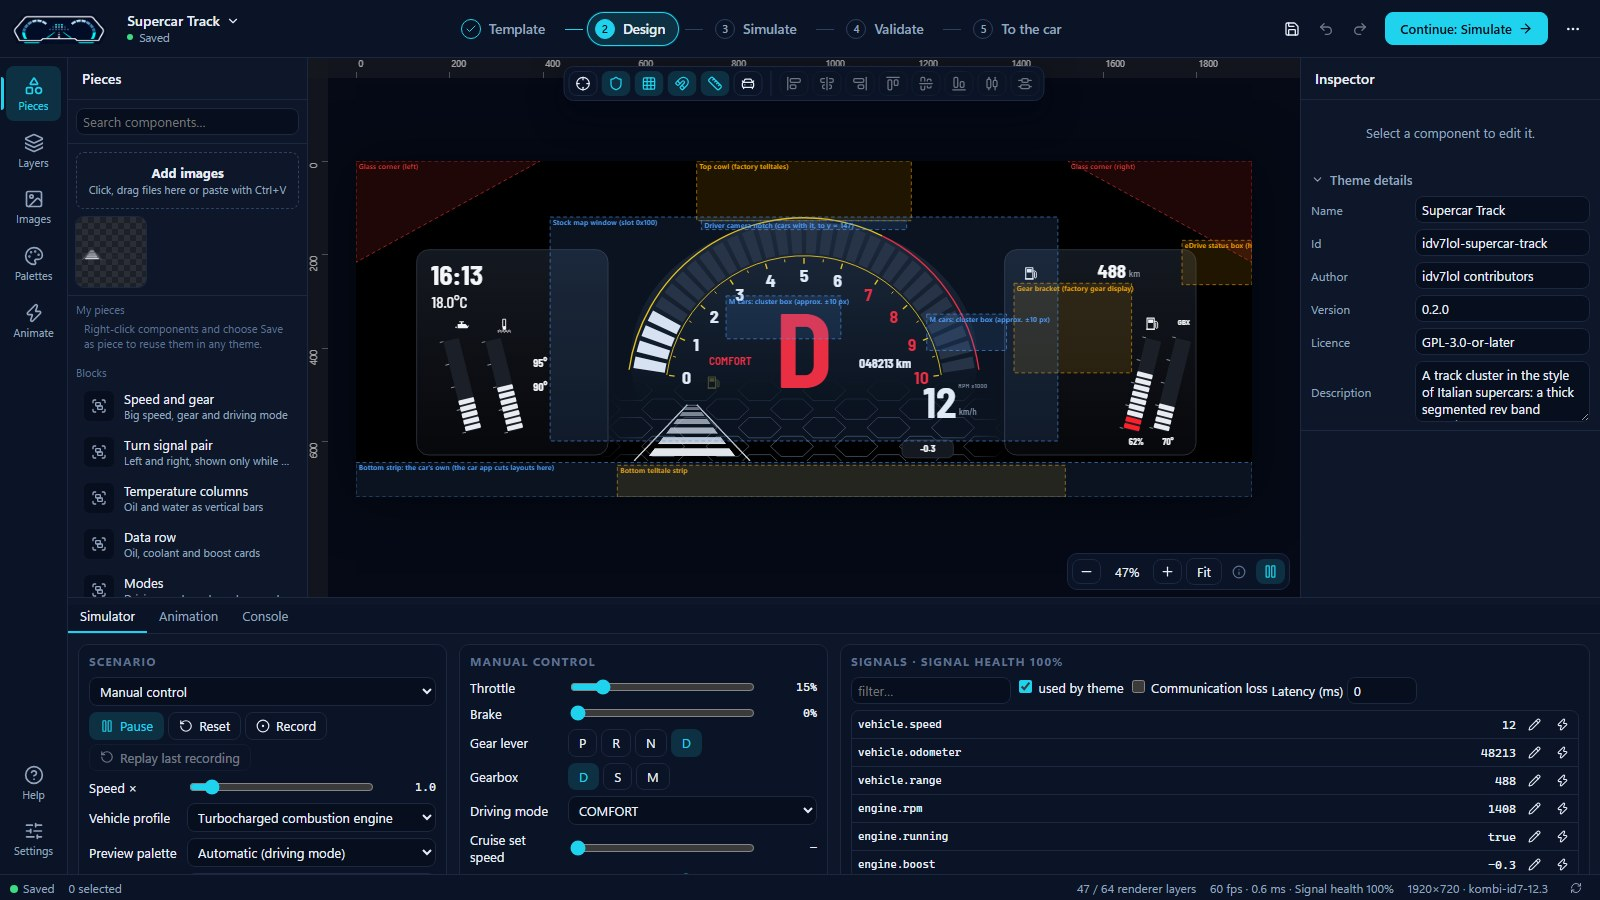
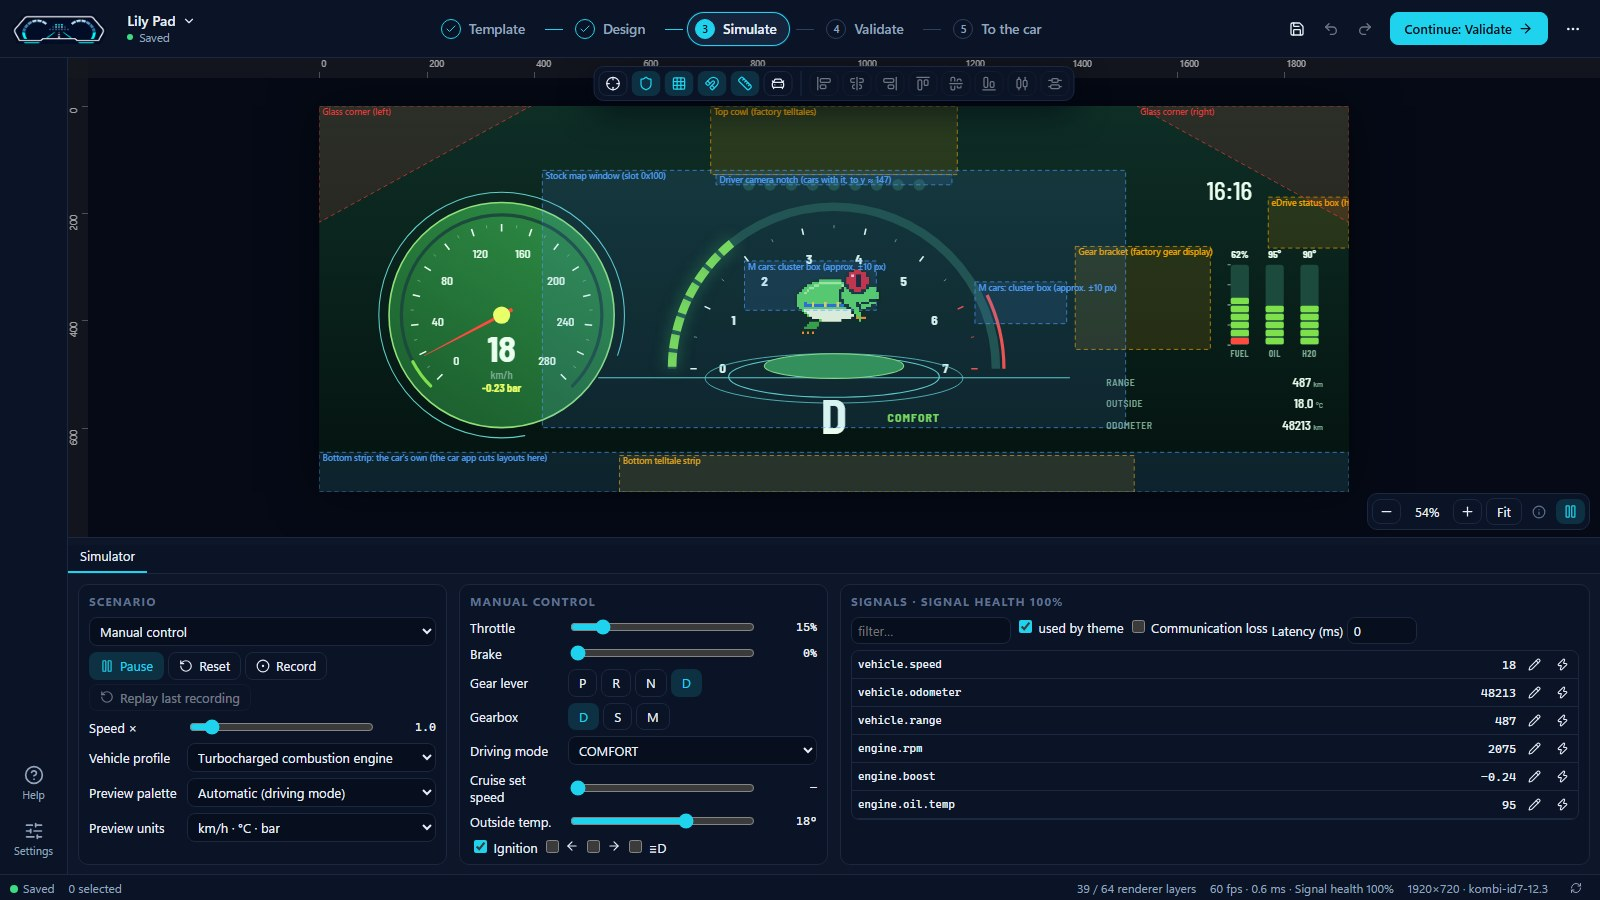
docs: the new style pictured on its own steps, so it reads apart from the classic one

diff --git a/README.md b/README.md
@@ -70,12 +70,17 @@ compiled but not tested on a Mac yet; how to get it and open it the first time i
 **New (modern) style**, the default since beta 7. It takes the work a step at a time along the
 top: Template, Design, Simulate, Validate, To the car.
 
-![idv7lol Studio in its new modern style](docs/assets/screenshots/studio-new-view.jpg)
+![idv7lol Studio in its new modern style, on the Simulate step with the Lily Pad theme](docs/assets/screenshots/studio-new-view.jpg)
+
+Each step shows only what it needs. The last one, To the car, checks the theme and saves it for a
+USB stick:
+
+![The To the car step of the new style](docs/assets/screenshots/studio-new-view-to-the-car.jpg)
 
 **Classic style**, every panel at once, as the versions before beta 7 looked. Nothing was taken
 away: it is the same editor with the same tools.
 
-![idv7lol Studio in its classic style](docs/assets/screenshots/studio-classic-view.jpg)
+![idv7lol Studio in its classic style, with the Supercar Track theme](docs/assets/screenshots/studio-classic-view.jpg)
 
 The Studio asks which one you want the first time, and **…** > View switches between them at any
 time. The pictures below were taken in the classic style.
